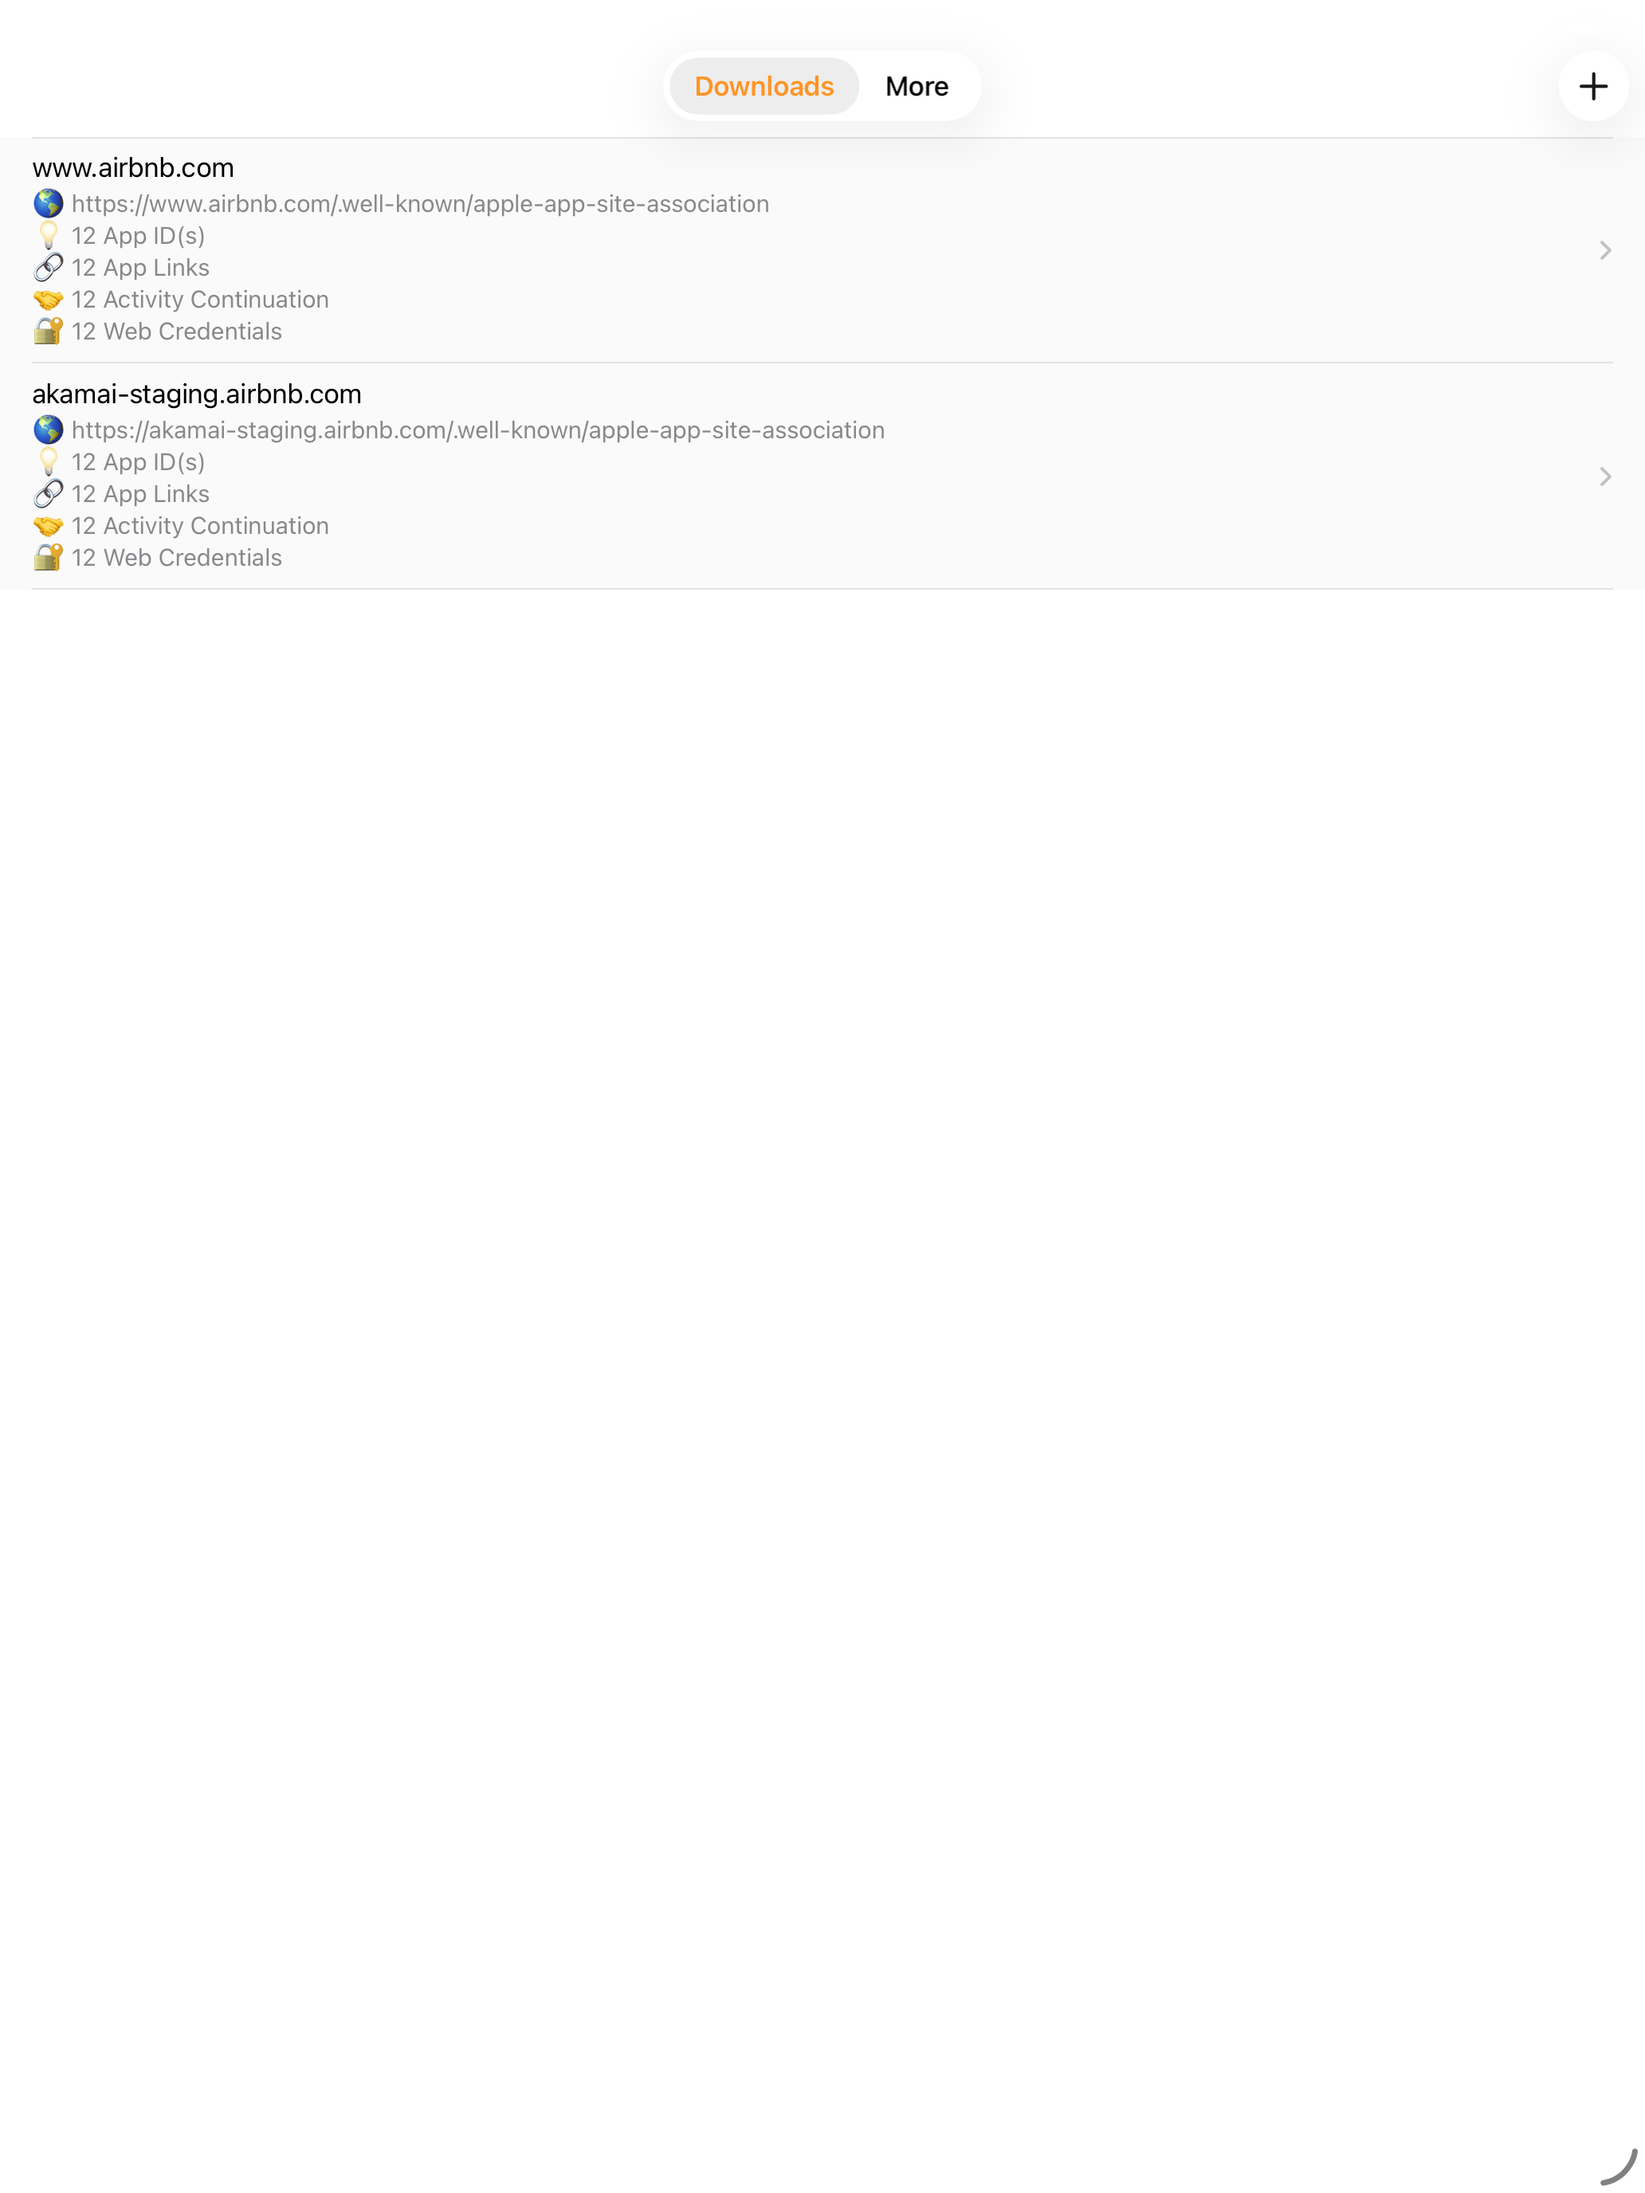
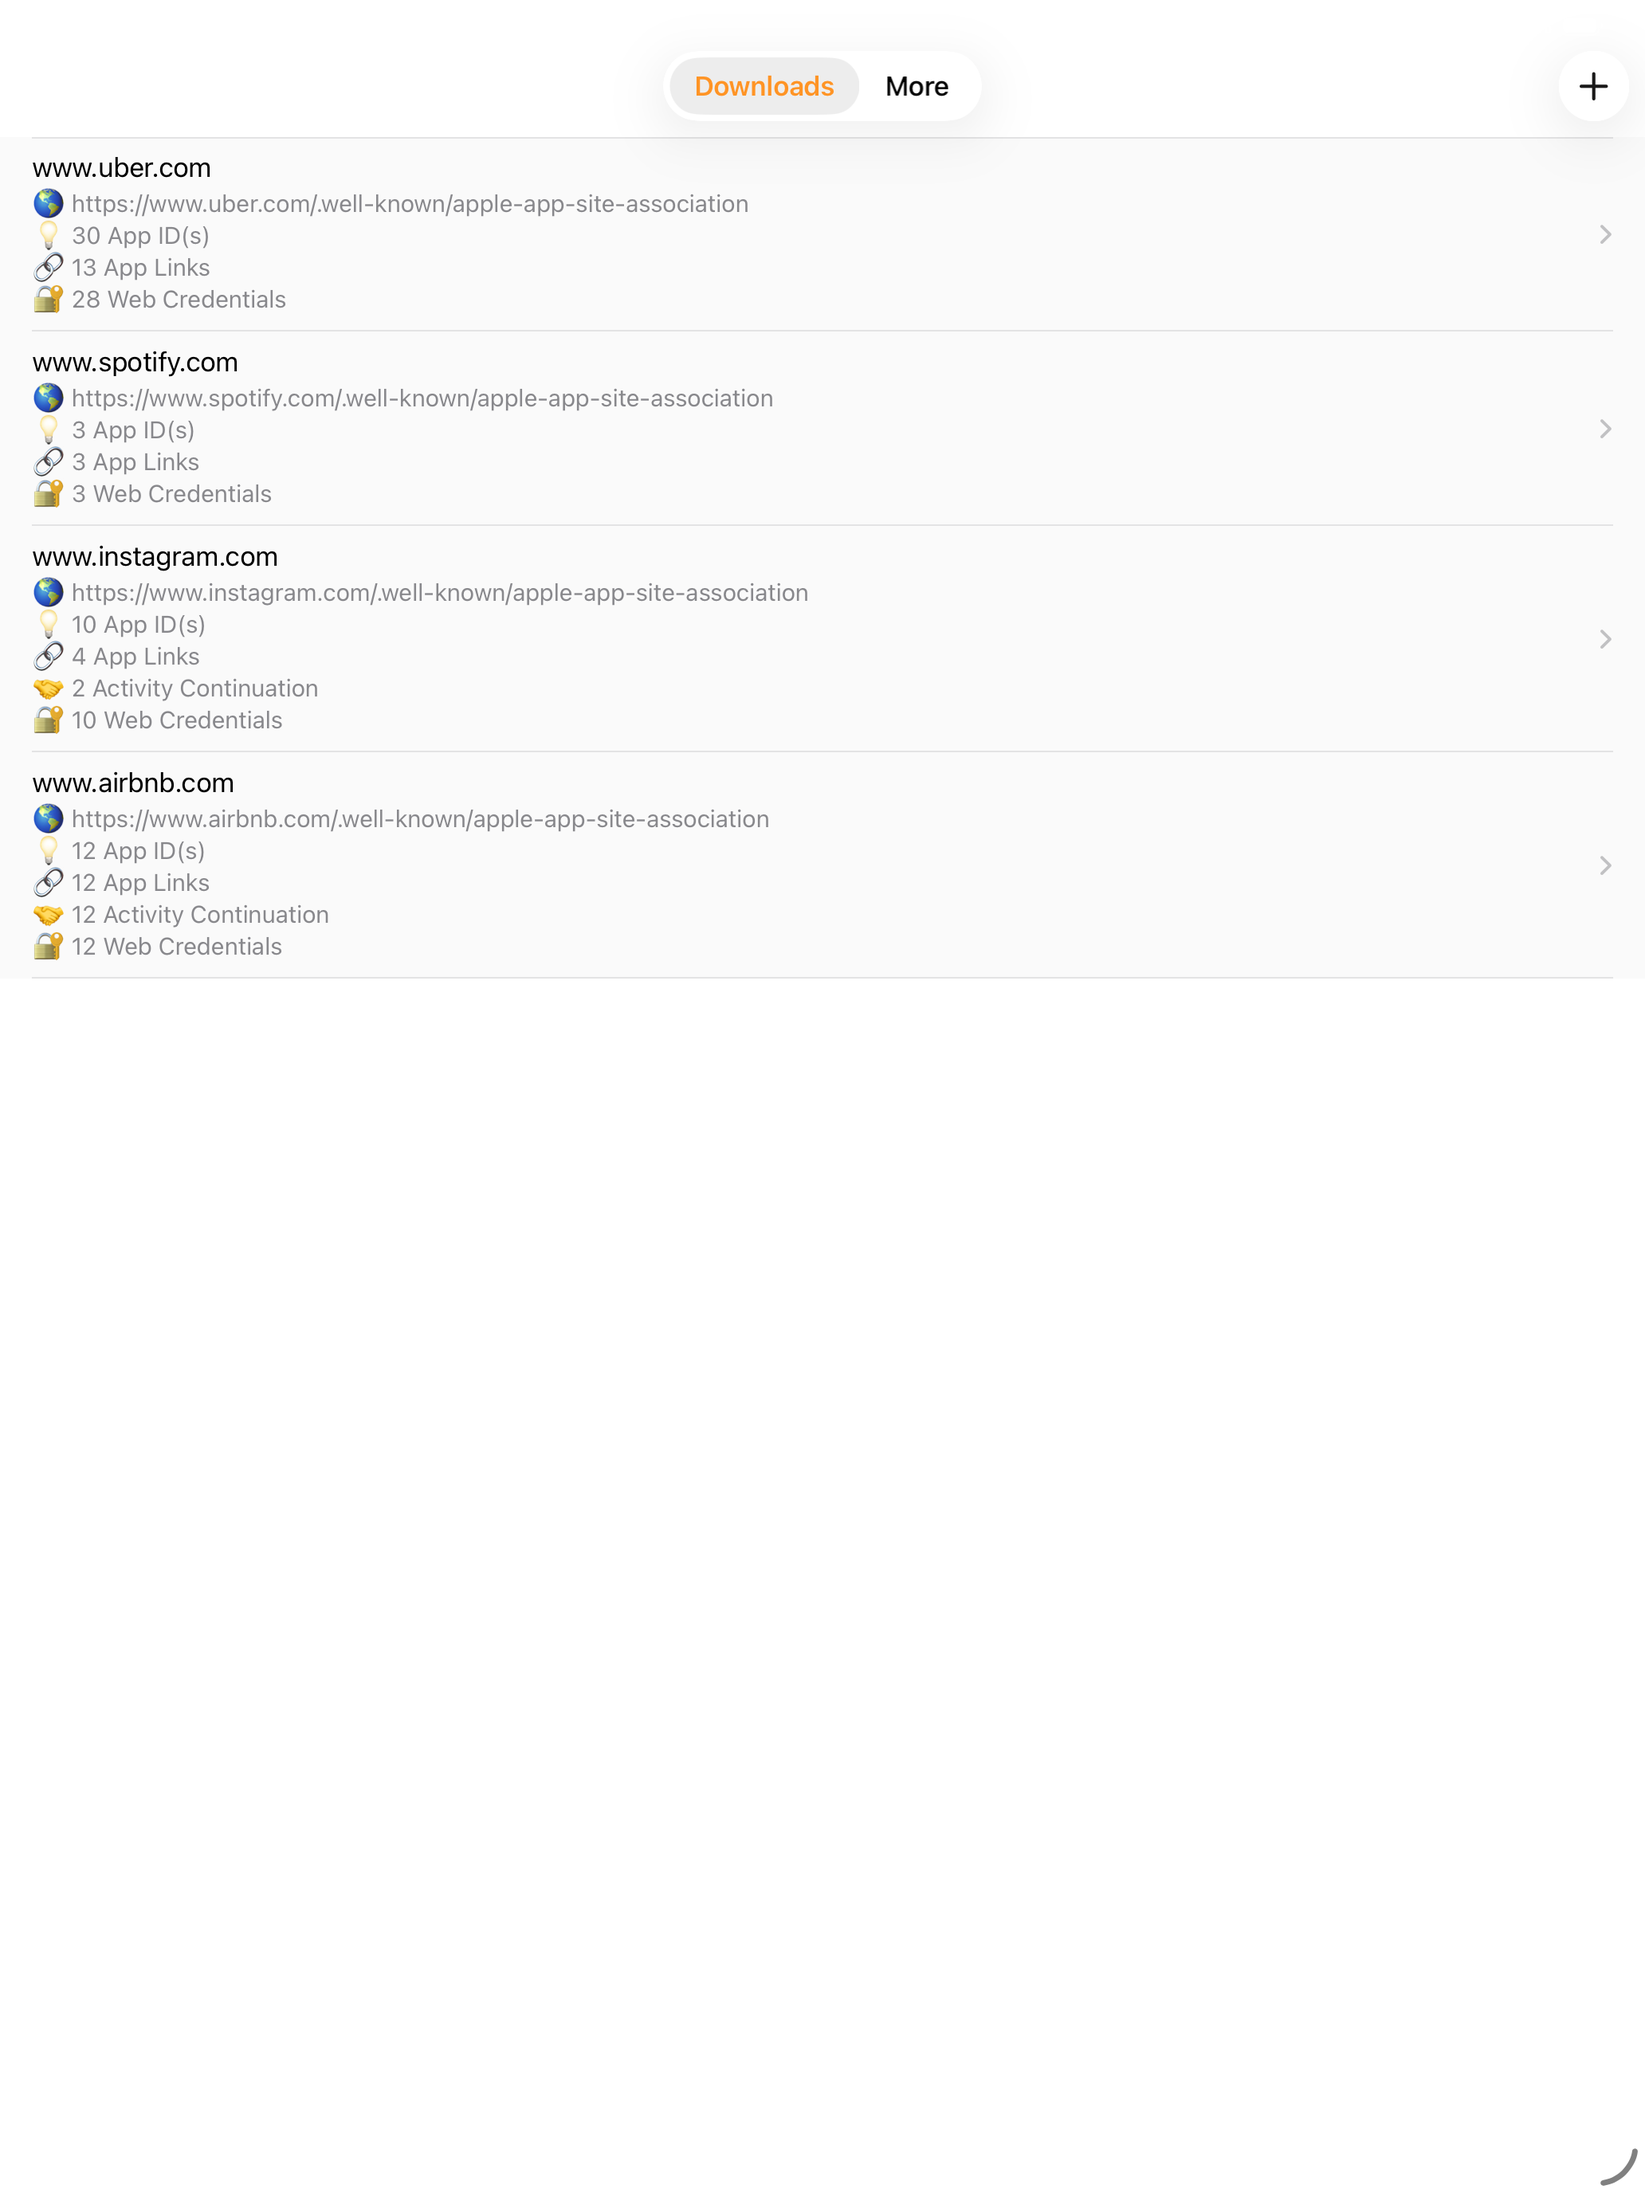
Update logic and screenshots.

Changed region(s): [[0.0, 0.0625, 0.2171, 0.4375]]

diff --git a/FathomKit/UserData/UserDataStore.swift b/FathomKit/UserData/UserDataStore.swift
@@ -62,22 +62,12 @@ public class UserDataStore {
     }
 
     private var seedHostnames: [String] {
-        if UserDataStore.isScreenshotModeEnabled {
-            return [
-                "www.airbnb.com",
-                "www.instagram.com",
-                "www.spotify.com",
-                "www.uber.com"
-            ]
-        }
-        return ["www.airbnb.com", "akamai-staging.airbnb.com"]
-    }
-
-    private static var isScreenshotModeEnabled: Bool {
-        if let value = ProcessInfo.processInfo.environment["APPSTORE_SCREENSHOT_MODE"] {
-            return (value as NSString).boolValue || value.lowercased() == "true"
-        }
-        return false
+        return [
+            "www.airbnb.com",
+            "www.instagram.com",
+            "www.spotify.com",
+            "www.uber.com"
+        ]
     }
 
     public func archive() {
